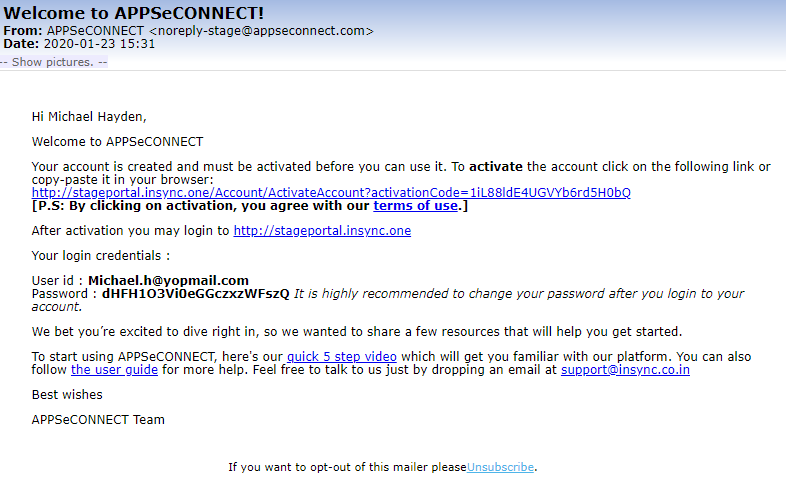
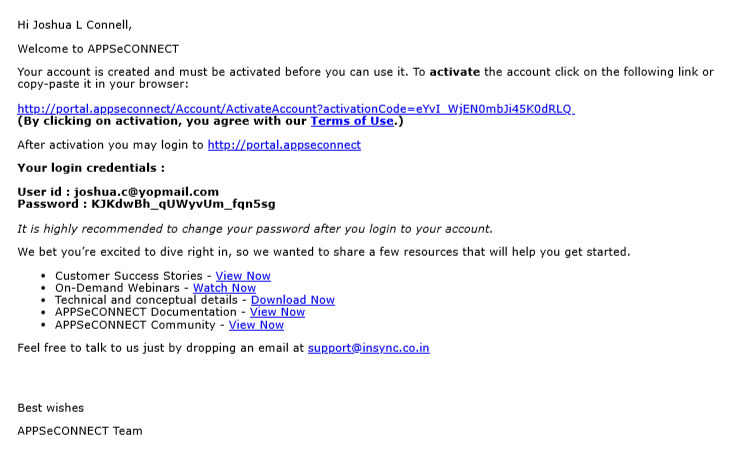
PF Decision & Bugs update

Changed region(s): [[0.0, 0.0, 1.0, 0.8217], [0.0307, 0.8522, 0.215, 0.9435], [0.2764, 0.9435, 0.6756, 0.9739]]

diff --git a/_posts/ProcessFlow Management/Nodes and Links/2018-09-24-working-with-decision.md b/_posts/ProcessFlow Management/Nodes and Links/2018-09-24-working-with-decision.md
@@ -10,3 +10,108 @@ menus:
         title: "Working with Decision" 
         identifier: decisionprocesflow
 ---
+## What is Decision Node?
+
+In Business, you may not have time for redundant data or data which is of no use to the business. Your Business can be Country specific or certain sets of customer specific and therefore you may not require data which are not oriented to you business. Therefore, in such case you may need to deal with data that are redundant. 
+
+APPSeCONNECT Process Flow is enabled with a decision node that will not execute the data that does not fulfills your criteria. 
+
+For Eg: A decision key is applied on a single chunk of data based on the decision criteria defined in the decision node configuration window that only those orders will be synced whose Shipping Address is of `US` (You may only have the option to ship data in `US`). 
+
+In such cases, only those data would be passed through the Decision node, which satisfies the condition, which makes it easy you to extract redundant orders.
+
+The following are the fields that you will get on dragging the Decision Node in the Process Flow Designer Panel.
+
+- **Node Description:** Here, you can provide a short description for the Decision Node.
+
+- **Decision Name:** Here, you can provide a short name that will help identify the purpose of the Decision Node when working later.
+
+- **Decision Key:** This is the actual field which decides the execution process of the decision node. Your `Decision Key` can be applied in these following areas:
+
+    - Decision on **Attribute**: Applying Decision on **attribute** allows the node to decide the condition over the value passed through the attribute. 
+
+    - Decision on **Generic Function**: Generic Functions of APPSeCONNECT allows you to extract transaction values. Applying Decision on Generic Appresource Function will execute the condition over the provided function and will allow the node based on the provided condition. [Click Here](/transformation/using-library-methods/) for more details on Appresource Functions.
+
+    - Decision on **Cloud Appresource Function**:  Cloud Appresource are the functions that are defined in the Cloud portal itself. Applying Decision on Cloud Appresource function will allow the node to execute the condition on the provided Cloud Appresource Function. [Click Here](/processflow/cloud-appresource-functions/) to know more about Process Flow cloud appresource function.
+
+_**Note:** You can only provide those Appresource Functions (both Cloud & Generic) as Decision Key which are defined either in Process Flow Level or Organisation level or APPSeCONNECT level._
+
+- **Operator:** You will be provided with a list of operators thats will enable the key to take the decision.
+
+- **Value:** Here, you need to provide the value for the KEY provided.
+
+- **Add Criteria:** You can also add multiple combined conditions & conjunctions using `AND` `OR`.   
+
+- **Toggle button:** You will be able to activate multiple conditions by activating/deactivating the toggle button.
+
+- **Preview URL:** You can view the complete expression that will be generated as per the condition the Preview URL box below. In-Case, the final expression in the URL preview is too long, you need to hover, to view the complete expression.
+
+![PFdecision1]()
+
+## Prerequisites:
+
+- You need to have valid credentials of the portal.
+- You need to [create a Process Flow](/processflow/creating-processflow/) or need to have an existing Process Flow developed.
+
+## Working Principle:
+
+
+1.  Drag the decision node in the designer panel from the Process Property menu. The Decision Node Configuration Window opens.
+
+![PFdecision2]()
+
+2.  You can view the above mentioned fields. Enter the name & node description. 
+
+3. You need to provide the Decision KEY, for commanding the Decision Operation. Here you can view the decision key applied on the Decision Attribute.
+
+    **Scenario:** Implementing Decision on Attribute.
+
+    **Description:** You may have your Business Model stating, only those orders  shall be shipped whose Country is **`US` (United States)** & Region Code is **`NY` (New York)** & the Email Id of the customer shall contain `gmail.com`. Therefore, you may not require to sync orders that has the shipping address of states other than `NY` or of some other email domain. Therefore, implementing such decision, your decision KEY should be provided with XPATH that searches for the COUNTRY & State & customer_email in the Input Packet. In this Scenario, the configuration should be.
+
+    - **Decision Key:** `//items//item//shipping/country_id`
+    - **Operator:** `Equals to`
+
+    - **Value:** `US`
+
+    & 
+
+    - **Decision Key:** `//items/item//shipping/region_code`
+    - **Operator:** `Equals to`
+    - **Value:** `NY`
+
+    & 
+
+    - **Decision Key:** `//items/items/customer_email`
+    - **Operator:** `Contains`
+    - **Value:** `gmail.com`
+
+_**Note: You need to click the button `Add Criteria` for providing multiple condition with conjunctions. Also, you need to enable the toggle button for activating the conditions.**_
+
+ ![PFdecision3]()
+
+4. Once the decision criteria is provided, you can view the final expression in the Preview URL.
+
+![PFdecision4]()
+
+5. Enable the Toggle buttons for the criteria and click on the SAVE button.
+
+6. Once all the configuration are made for the Process Flow. [Deploy and Execute](/processflow/deploying-and-executing-processfloww/) the Process Flow.
+
+![PFdecision5]()
+
+7. After completion of the execution, you successfully view the snapshot for the Decision Node. [Click Here](/processflow/snapshot-processflow/) to know more about Process Flow Snapshots.
+
+![PFdecision6]()
+
+Following the above process you can successfully implement Decision for a Process Flow.
+
+
+## Business Specific Scenarios for Decision:
+
+| Decision Criteria | Operator Used |Value| Decision Description | Decision Applied On |
+|----|-------------|---------|---------|-------|
+| `//items//item//state_code` | `=` | `CAL` (California) | Only those orders shall be accepted whose state provided in the address is `CAL` | Attribute |  
+|`getMapping('TAX',//items/items//extension_attributes/applied_taxes/item/code)` AND `//items//item//shipping/country_id`| `contains` & `=`|`SVAT` & `CA` | this decision states that only those orders shall be accepted whose Tax code contains SVAT & Country code is `CA` (CANADA) | Generic Function & Attribute |
+|`IsDate()`| `=` | `2020-06-01`| This condition states that only those data shall qualify the decision whose date equals to the provided value| Generic function |
+|`cloudResourcelib:timeinstance(string)`| `<=`|`01062020`|Here, a cloud Appresource function is defined and is provided in decision key where the condition checks that only those data would be accepted whose data, returned, is less than the value provide|Cloud Appresource|
+|`cloudResourcelib:timeinstance(string)` AND `cloudResourcelib:timeinstance(string)`| `>=` & `<=`|`02022020` & `04062020`|Here, a conjuction of a cloud appresource function is implemented to accept only those data whose value is greater than equal to `02022020` and less than equal to `04062020`|Conjunction of Cloud Appresource Function|

diff --git a/_posts/Getting-Started/2018-09-19-user-registration.md b/_posts/Getting-Started/2018-09-19-user-registration.md
@@ -64,7 +64,12 @@ You require to sign up for an account with APPSeCONNECT Community.
 **ProTip:** Customers needs to provide their business Email for registering with APPSeCONNECT.
 {: .notice--info}  
 
-3.	Once the details are filled up, click `Get Started` button. User gets an Activation mail for the trial account in the provided mail id.    
+3.	Once the details are filled up, click `Get Started` button. User gets an Activation mail for the trial account in the provided mail id. With the activation mail, you will also recieve the links of the following for better assistance.
+- Link for Customer Stories that will allow you to know the product efficiency in Market.
+- Link for the On-Demand Webinars that will provide you informations regarding APPSeCONNECT.
+- Link Technical & Conceptual Details will provide you with the opportunity to learn technical built up and concept of APPSeCONNECT.
+- Link for APPSeCONNECT Documentations will help you with the usability aspect throughout APPSeCONNECT.
+- Link for APPSeCONNECT Community will enable you to stay connect with the APPSeCONNECT Community for quick support and discussions.
 ![newcustomer_registration3](/staticfiles/root/media/newcustomer_registration3.png)  
 4.	Clicking on `Activation link` will activate the created account. User will now be able to login to the portal with the password provided in the activation mail.  
 5.	Once logged, APPSeCONNECT portal would ask the user to change the password for security purpose.    

diff --git a/_posts/Rule-Management/PreconfiguredRule/2019-06-20-preconfigured-rule-for-detailed-sync-report.md b/_posts/Rule-Management/PreconfiguredRule/2019-06-20-preconfigured-rule-for-detailed-sync-report.md
@@ -46,11 +46,11 @@ Users would receive the hourly report in the email id provided for the Organisat
 of the sync report (for failed during the execution process) for the previous hour. 
 
 **Note: 
-        (a) In-case of no error, there wont be any mail sent.      
-        (b) The organisations need to be in Go-Live status for the Hourly Report.      
-        (c) Also, by default, the token for sending mails is set as ${orgEmails}$ which represents, that all users of the same organization will receive the notifications.       
-           Users can provide the specific recipient email address directly to mail field 
-           for sending the notification to selective users.
-        (d) This Report will only display the errors that are faced during the sync process of the last hour**
+        * In-case of no error, there wont be any mail sent.      
+        * The organisations need to be in Go-Live status for the Hourly Report.      
+        * Also, by default, the token for sending mails is set as ${orgEmails}$ which represents, that all users of the same organization will receive the notifications.       
+        * Users can provide the specific recipient email address directly to mail field for sending the notification to selective users.
+        * This Report will only display the errors that are faced during the sync process of the last hour
+        * You will not recieve the Detailed Sync Report if the subscription of your organisation has expired.**
 
 

diff --git a/_posts/Getting-Started/2018-09-20-accessing-portal.md b/_posts/Getting-Started/2018-09-20-accessing-portal.md
@@ -292,7 +292,18 @@ following actions:
 
 1. User can view the organisation subscription plan and its expiry date.  
 ![subscription1](/staticfiles/root/media/subscription1.png)      
-2. Our Support team helps you in Selection of necessary addons and help you in updating subscription.  
+
+2. Our Support team helps you in Selection of necessary addons and help you in updating subscription.
+
+_**Note:** On Expiry of your organisation you will not be able to perform the following functionalities
+
+- You will not be able to perform the sync process of new data either through Auto-Sync or Manual Sync.
+
+- You will not be able to login either on the platform or the OP Agent.
+
+- No [Morning Report](/rule/default-rule-for-morning-report/) and the [Detailed Sync Report](/rule/preconfigured-rule-for-detailed-sync-report/) will be sent if your organisation has expired.
+
+- On renewal of your subscription, new data will be taken for the sync process from following day onwards according to the expiry date.
 
 For Pricing details [click here](https://www.appseconnect.com/pricing/)
 

diff --git a/_posts/Workflow-Management/Quickstart/2018-09-22-list-of-snapshot.md b/_posts/Workflow-Management/Quickstart/2018-09-22-list-of-snapshot.md
@@ -49,6 +49,8 @@ Get, Halt, Resume,Process, Post etc. as shown below
 * Resync Bucket - This shows the status of the resync bucket wrt to the node. By default, 
 resync bucket opens up wrt to the selected node of the workflow. Resync Bucket gives information of the node
 being processed and it captures information like source id, destination id, Additional Data and Tries)
+
+**Note: Resync Bucket for Workflow Snapshot will display only 10 data at an instance. However, if you have 1000 data after the execution is over, you will be able to view all the data by scrolling through the pages.**
 * Log Bucket - This shows the logs specific to a node/loop. The errors will be displayed, if any.
 * File - This shows the XML File on our local systems,for the error will be shown directly in the FILE tab.  
 6. By default Resync bucket tab is selected. Click on log bucket tab to view the Log bucket of the processed node as shown below.  

diff --git a/_posts/Integration/SAGE300-Magento2/2020-05-15-sage300-magento2.md b/_posts/Integration/SAGE300-Magento2/2020-05-15-sage300-magento2.md
@@ -35,6 +35,8 @@ The basic pre-requisite for Integration is given below:
 |[Customer Update](/integration/customer-update/)|Magento2-SAGE300|Address Update (Only for B2C customers)|
 |[I/C Product Add](/integration/ic-product-add/)|SAGE300-Magento2|NA|
 |[I/C Inventory Add](/integration/ic-inventory-update/)|SAGE300-Magento2|NA|
-|[Sales Order Add](/integration/sales-order-add/)|NA|NA|
+|[Sales Order Add](/integration/sales-order-add/)|Magento2-SAGE300|NA|
+|[Shipment Add](/integration/ic-shipment-add/)|SAGE300-Magento2|NA|
+|[Invoice Add](/integration/ic-invoice-add/)|SAGE300-Magento2|NA|
 
 Following the above list, you can successfully integrate each entity of the Sales Cycle for SAGE300 & Magento2.

diff --git a/_posts/Rule-Management/DefaultRule/2019-06-21-default-rule-for-morning-report.md b/_posts/Rule-Management/DefaultRule/2019-06-21-default-rule-for-morning-report.md
@@ -38,6 +38,7 @@ To Cite an example, if the transaction period is from 3.12.2019 - 00.00hrs to 4.
 * Default Rule for Morning Report will get auto-activated for cloud agent users without deploying/updating configuration.
 * For OP Agent, the default Rule for Morning Report will get auto-activated for new organization users, after activating and logging in to their Agent.
 * Existing Organisations with OP Agent environment, needs to the update/deploy the configurations for activating the rule.
+* You will not recieve the Morning Report if the subscription of your organisation has expired.
 
 
 
